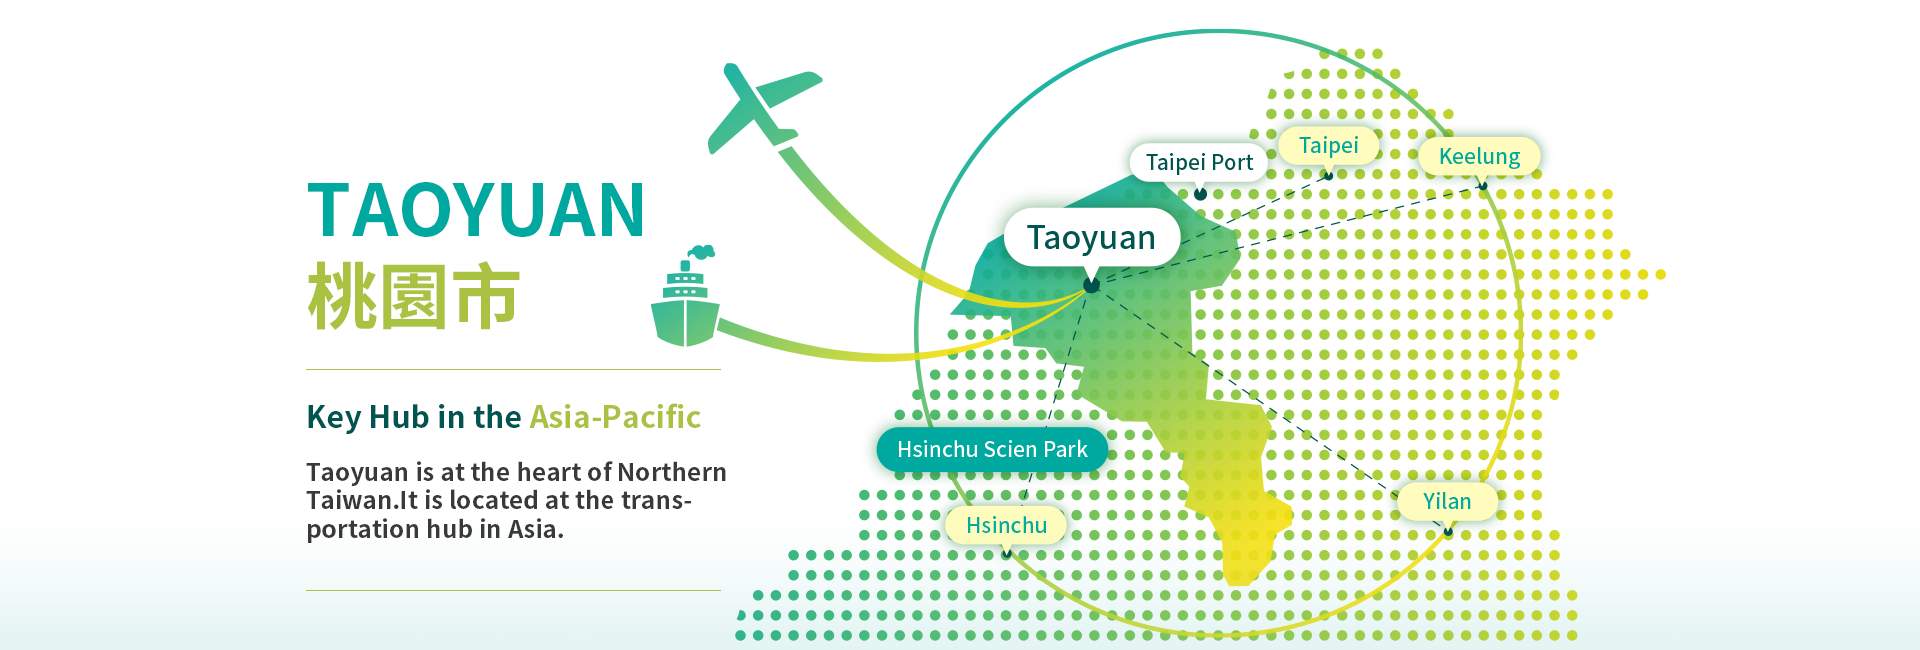
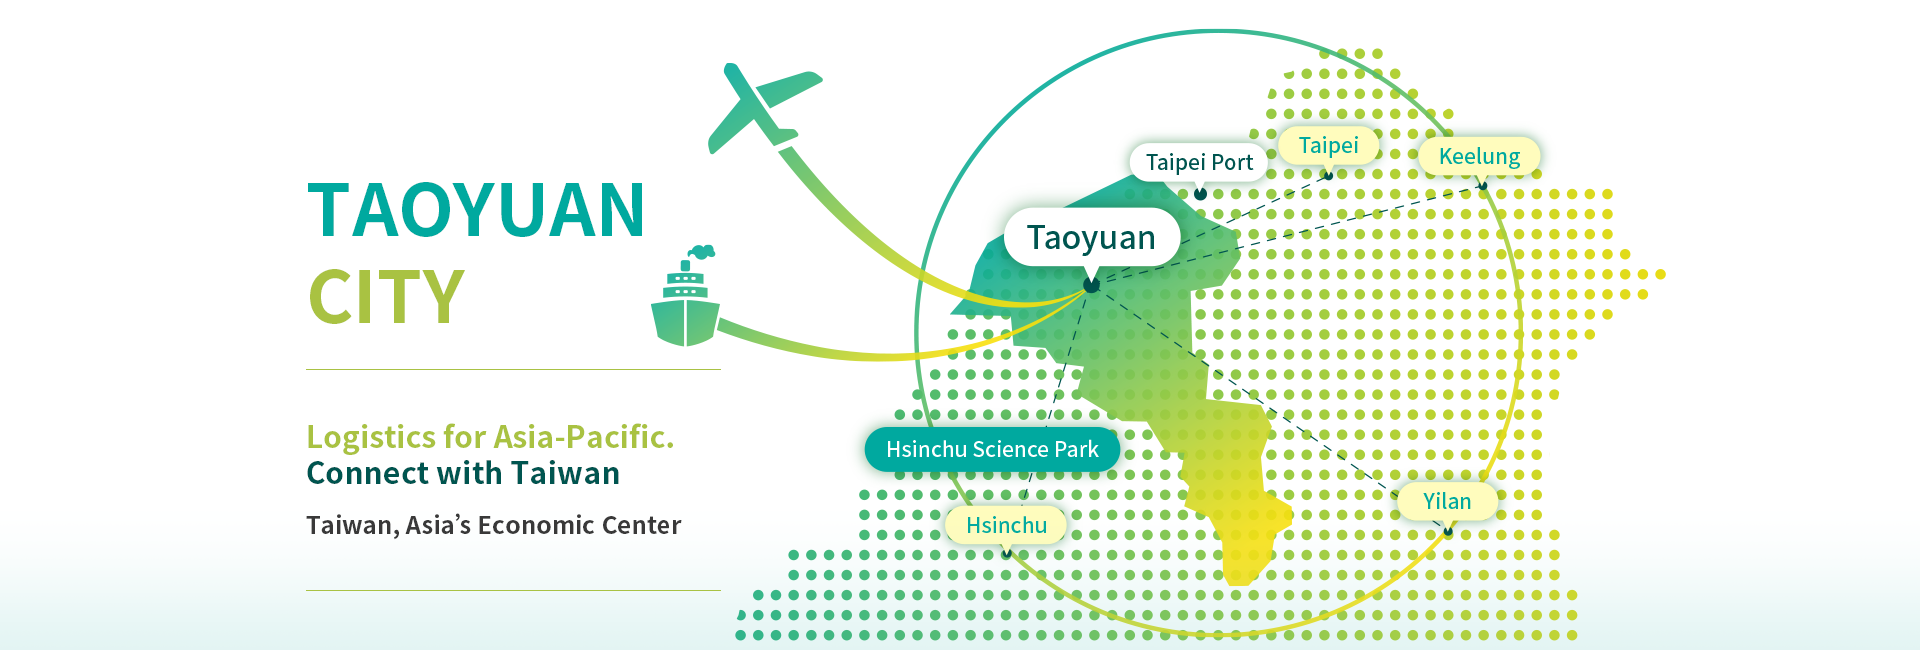
11/23 調整
英文頁面調整:
1. 更換banner / Annual Results / Investment Advantages / footer三張小icon
2. 增加performance圖片
3. global.css修改

diff --git a/English/css/global.css b/English/css/global.css
@@ -26585,10 +26585,12 @@ body, html {
 }
 .list-text.minor-nav > .in > .ct ul {
   padding: 24px 0;
+  max-width: 350px;
 }
 @media (max-width: 991px) {
   .list-text.minor-nav > .in > .ct ul {
     padding: 12px 0;
+    max-width: 300px;
   }
 }
 .list-text.minor-nav > .in > .ct ul li {
@@ -26622,10 +26624,8 @@ body, html {
 .list-text.minor-nav > .in > .ct a::before {
   content: "";
   position: absolute;
-  top: 50%;
+  top: 14px;
   left: 28px;
-  -webkit-transform: translateY(-50%);
-          transform: translateY(-50%);
   width: 7px;
   height: 7px;
   border-radius: 50%;
@@ -26637,6 +26637,7 @@ body, html {
   .list-text.minor-nav > .in > .ct a::before {
     width: 5px;
     height: 5px;
+    top: 15px;
     left: 18px;
   }
 }
@@ -26727,7 +26728,7 @@ body, html {
   }
 }
 
-/* 20221110v1版-喜美*/
+/* 20221123v1版-喜美*/
 .advantage {
   margin: 6em auto;
 }
@@ -26939,10 +26940,6 @@ body, html {
   .group-tab.default > .in > .ct > .in > ul > li > .group-list.slider > .in > .ft {
     margin: 40px auto 0;
   }
-}
-
-.advantage .intro {
-  text-align: left;
 }
 
 @media (max-width: 768px) {
